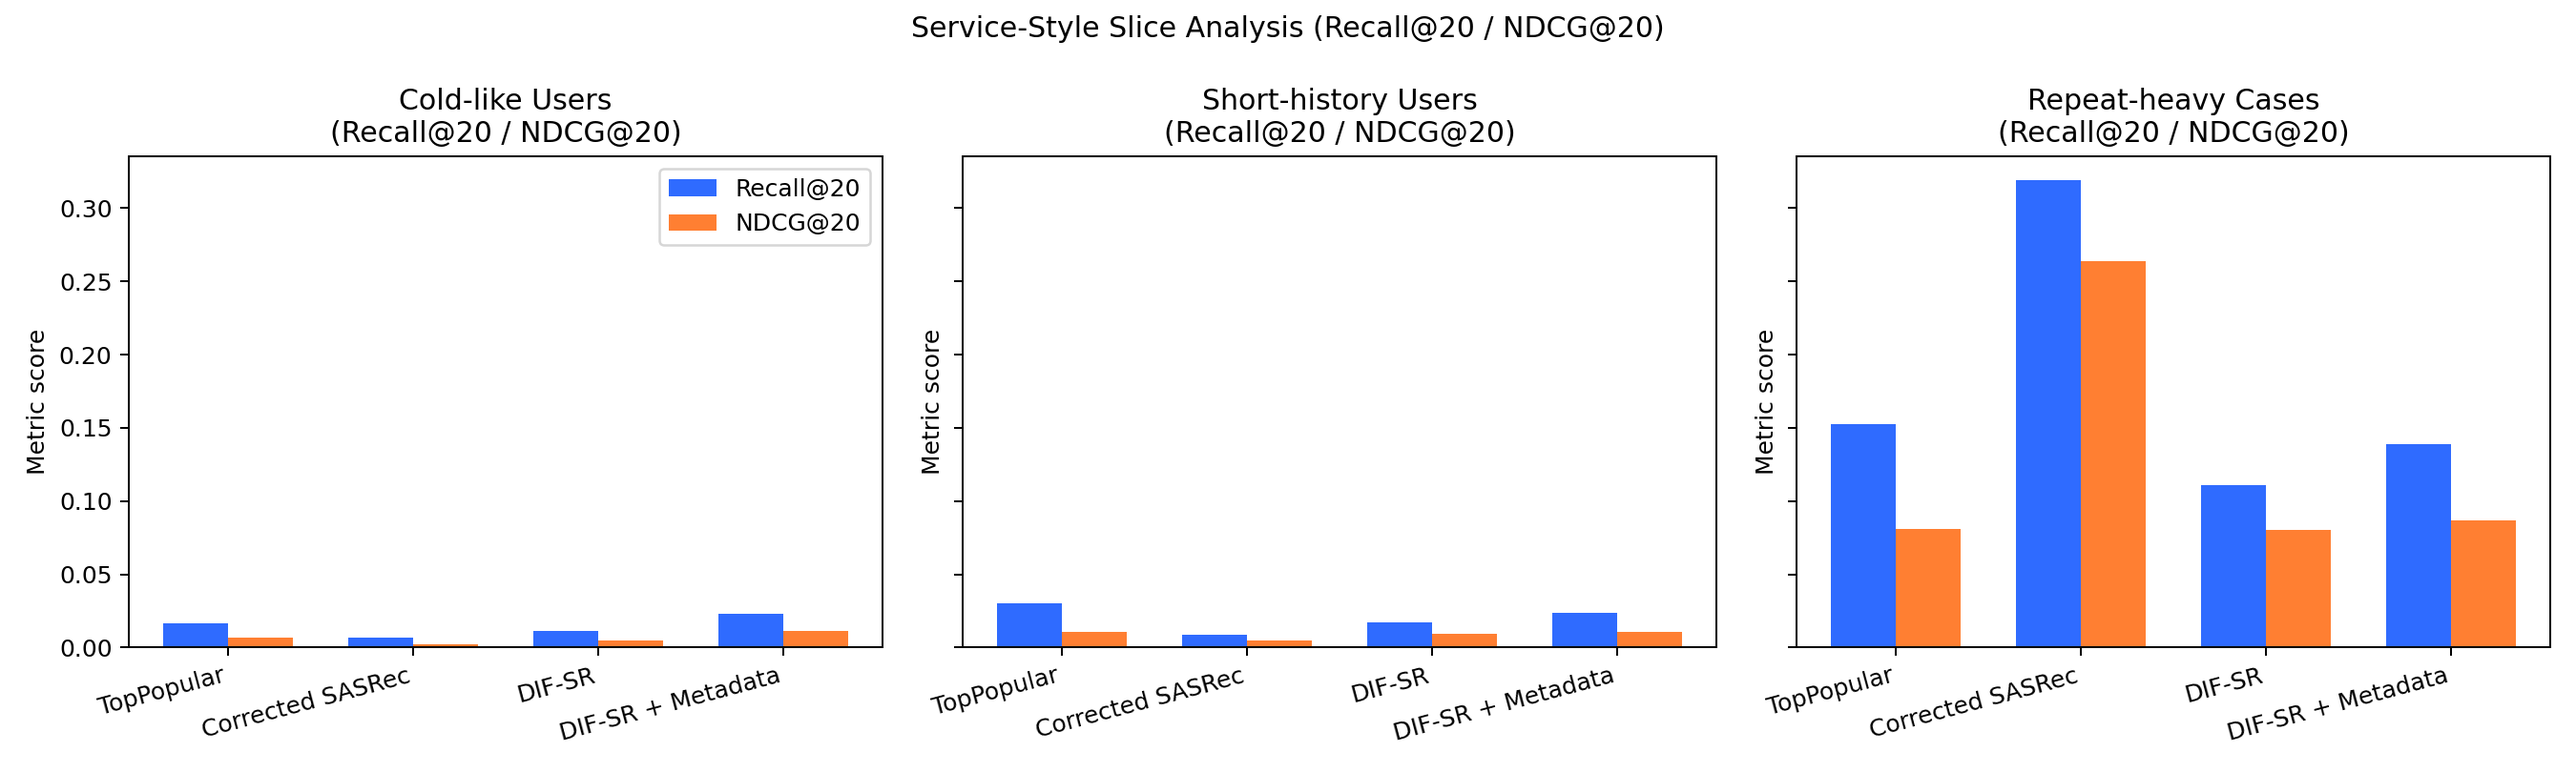
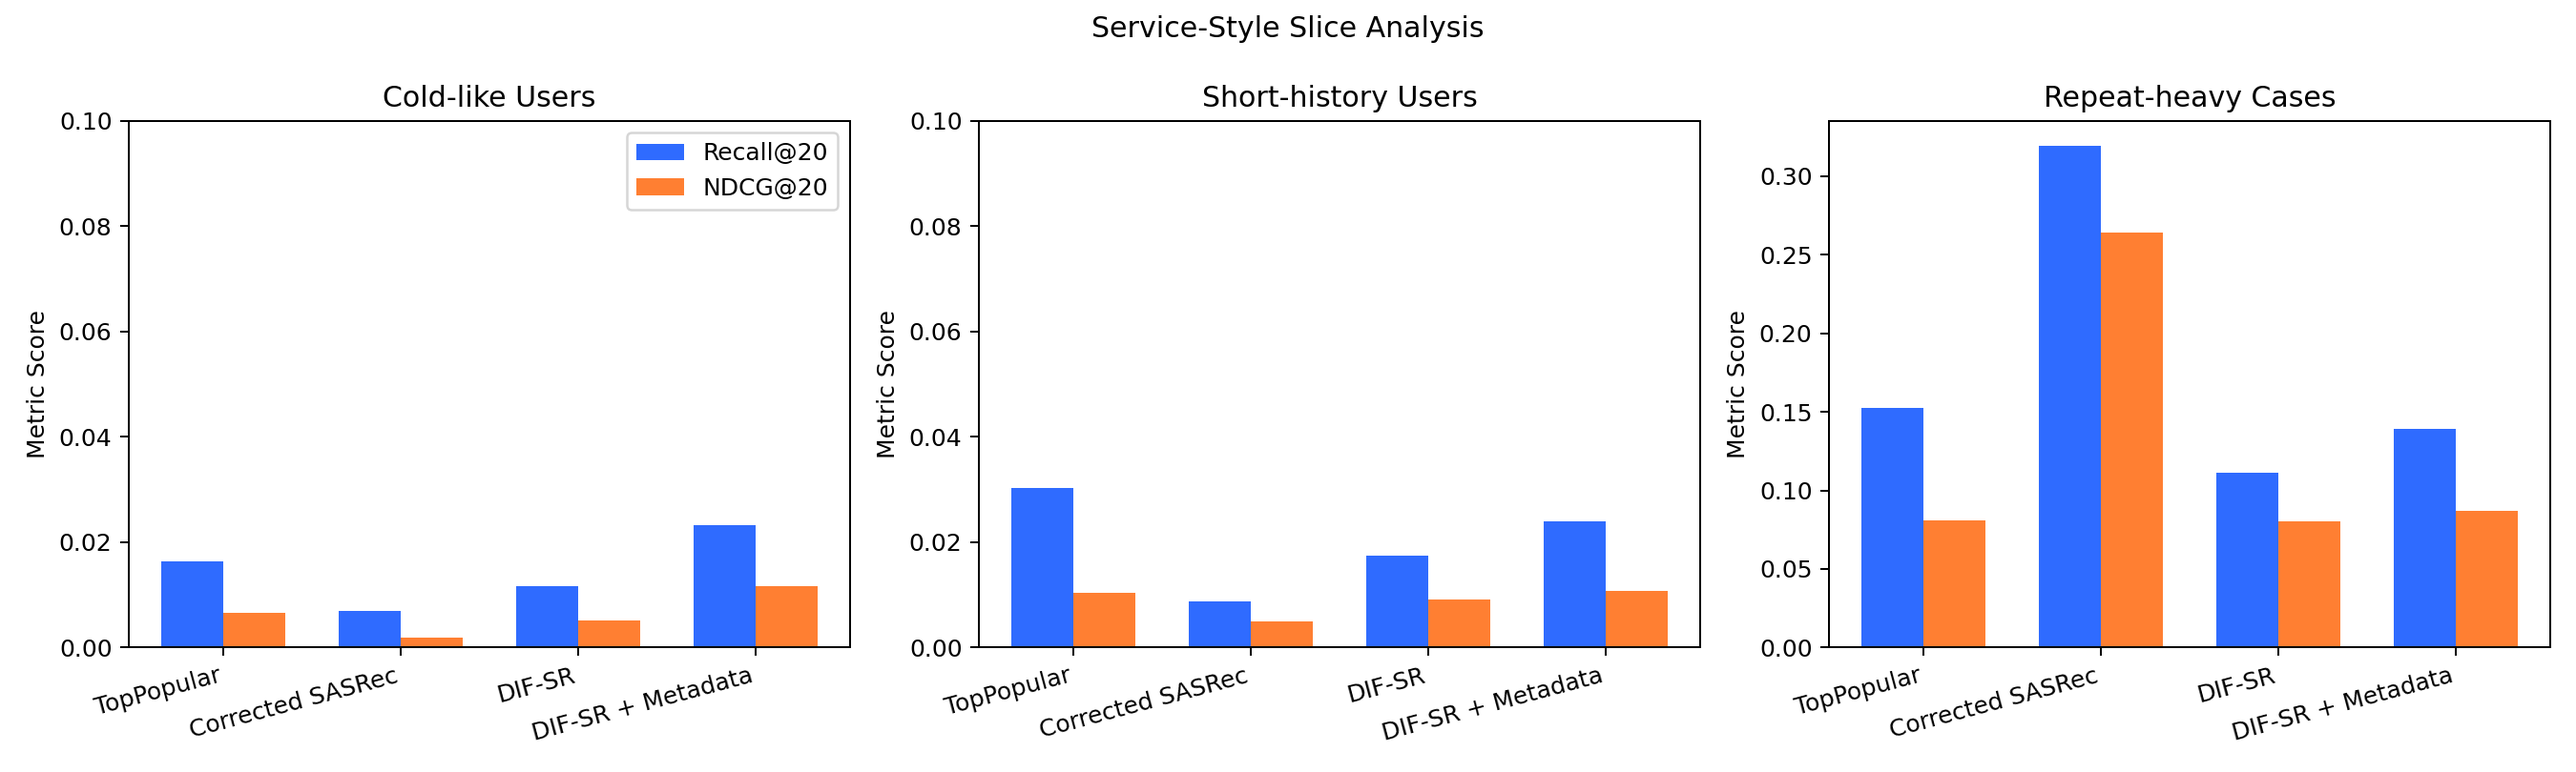
docs: streamline readme and slice analysis visuals

diff --git a/scripts/generate_service_style_eval.py b/scripts/generate_service_style_eval.py
@@ -148,15 +148,15 @@ def render_service_comparison_plot(canonical, service_results, output_path: Path
 def render_service_slice_plot(slice_results, output_path: Path):
     slice_names = ["cold-like users", "short history users (<=5)", "repeat purchase cases"]
     slice_titles = {
-        "cold-like users": "Cold-like Users\n(Recall@20 / NDCG@20)",
-        "short history users (<=5)": "Short-history Users\n(Recall@20 / NDCG@20)",
-        "repeat purchase cases": "Repeat-heavy Cases\n(Recall@20 / NDCG@20)",
+        "cold-like users": "Cold-like Users",
+        "short history users (<=5)": "Short-history Users",
+        "repeat purchase cases": "Repeat-heavy Cases",
     }
     models = ["TopPopular", "Corrected SASRec", "DIF-SR", "DIF-SR + Metadata"]
     x = np.arange(len(models))
     width = 0.35
 
-    fig, axes = plt.subplots(1, len(slice_names), figsize=(15, 4), sharey=True)
+    fig, axes = plt.subplots(1, len(slice_names), figsize=(15, 4), sharey=False)
     for ax, slice_name in zip(axes, slice_names):
         recall_vals = [slice_results[m][slice_name]["Recall@20"] for m in models]
         ndcg_vals = [slice_results[m][slice_name]["NDCG@20"] for m in models]
@@ -165,9 +165,11 @@ def render_service_slice_plot(slice_results, output_path: Path):
         ax.set_title(slice_titles[slice_name])
         ax.set_xticks(x)
         ax.set_xticklabels(models, rotation=15, ha="right")
-        ax.set_ylabel("Metric score")
+        ax.set_ylabel("Metric Score")
+        if slice_name in {"cold-like users", "short history users (<=5)"}:
+            ax.set_ylim(0.0, 0.10)
     axes[0].legend()
-    fig.suptitle("Service-Style Slice Analysis (Recall@20 / NDCG@20)")
+    fig.suptitle("Service-Style Slice Analysis")
     fig.tight_layout()
     output_path.parent.mkdir(parents=True, exist_ok=True)
     fig.savefig(output_path)

diff --git a/analysis/generate_final_portfolio_plots.py b/analysis/generate_final_portfolio_plots.py
@@ -90,14 +90,14 @@ def plot_service_slices(service_slices, output_path: Path):
     models = ["TopPopular", "Corrected SASRec", "DIF-SR", "DIF-SR + Metadata"]
     slice_names = ["cold-like users", "short history users (<=5)", "repeat purchase cases"]
     slice_titles = {
-        "cold-like users": "Cold-like Users\n(Recall@20 / NDCG@20)",
-        "short history users (<=5)": "Short-history Users\n(Recall@20 / NDCG@20)",
-        "repeat purchase cases": "Repeat-heavy Cases\n(Recall@20 / NDCG@20)",
+        "cold-like users": "Cold-like Users",
+        "short history users (<=5)": "Short-history Users",
+        "repeat purchase cases": "Repeat-heavy Cases",
     }
     x = np.arange(len(models))
     width = 0.35
 
-    fig, axes = plt.subplots(1, 3, figsize=(15, 4.5), sharey=True)
+    fig, axes = plt.subplots(1, 3, figsize=(15, 4.5), sharey=False)
     for ax, slice_name in zip(axes, slice_names):
         recall_values = [service_slices[m][slice_name]["Recall@20"] for m in models]
         ndcg_values = [service_slices[m][slice_name]["NDCG@20"] for m in models]
@@ -106,9 +106,11 @@ def plot_service_slices(service_slices, output_path: Path):
         ax.set_title(slice_titles[slice_name])
         ax.set_xticks(x)
         ax.set_xticklabels(models, rotation=15, ha="right")
-        ax.set_ylabel("Metric score")
+        ax.set_ylabel("Metric Score")
+        if slice_name in {"cold-like users", "short history users (<=5)"}:
+            ax.set_ylim(0.0, 0.10)
     axes[0].legend()
-    fig.suptitle("Service-Style Slice Analysis (Recall@20 / NDCG@20)")
+    fig.suptitle("Service-Style Slice Analysis")
     fig.tight_layout()
     fig.savefig(output_path, dpi=180)
     plt.close(fig)

diff --git a/README.md b/README.md
@@ -4,27 +4,6 @@
 
 이 저장소는 H&M 거래 데이터로부터 구성한 구매 시퀀스를 사용해, 극도로 희소한 상호작용 환경에서 sequential recommendation이 어떻게 동작하는지 분석합니다.
 
-이 프로젝트는 다음 세 가지 질문에 답하는 것을 목표로 합니다.
-
-- item metadata가 추천 성능을 개선하는가?
-- 어떤 사용자 구간에서 metadata가 특히 더 유용해지는가?
-- 약한 behavioral signal 환경에서 모델 구조 차이가 어떻게 작동하는가?
-
-최종 아티팩트는 다음을 포함하는 연구형 실험 패키지로 구성되어 있습니다.
-
-- baseline verification
-- canonical research evaluation
-- service-style robustness evaluation
-- user regime별 slice analysis
-- dataset regime 해석
-
-## Quick Navigation
-
-- Reports: [`reports/README.md`](reports/README.md)
-- Config Index: [`configs/README.md`](configs/README.md)
-- Repository Guide: [`REPOSITORY_GUIDE.md`](REPOSITORY_GUIDE.md)
-- Framework Docs: [`docs/framework/`](docs/framework)
-
 ## Abstract
 
 이 프로젝트는 real fashion purchase dataset에서 sparse interaction regime 하의 sequential recommendation을 분석합니다. 핵심 질문은 item metadata가 recommendation quality를 개선하는지, 그리고 어떤 user regime에서 그 효과가 가장 크게 나타나는지입니다.
@@ -226,34 +205,11 @@ service-style report:
 
 ![Service-style slice analysis](plots/final_slice_analysis.png)
 
-각 panel은 `Recall@20`와 `NDCG@20`를 함께 보여줍니다.
-
-### Cold-Like Users
-
-`DIF-SR + Metadata`
-
-- `Recall@20: 0.0233`
-- `NDCG@20: 0.0116`
-
-behavioral signal이 약할수록 metadata의 가치가 더 커집니다.
-
-### Short History Users
-
-`DIF-SR + Metadata`
-
-- `Recall@20: 0.0239`
-- `NDCG@20: 0.0107`
-
-짧은 interaction history에서는 metadata가 추천 성능을 뚜렷하게 개선합니다.
-
-### Repeat Purchase Cases
-
-`Corrected SASRec`
-
-- `Recall@20: 0.3194`
-- `NDCG@20: 0.2640`
-
-repeat-heavy scenario는 일반적인 sparse recommendation보다 memorization problem에 더 가깝게 동작합니다.
+| Slice | Best Model | Metrics | Interpretation |
+| --- | --- | --- | --- |
+| Cold-Like Users | `DIF-SR + Metadata` | `Recall@20: 0.0233`, `NDCG@20: 0.0116` | behavioral signal이 약할수록 metadata의 가치가 더 커집니다. |
+| Short History Users | `DIF-SR + Metadata` | `Recall@20: 0.0239`, `NDCG@20: 0.0107` | 짧은 interaction history에서는 metadata가 추천 성능을 뚜렷하게 개선합니다. |
+| Repeat Purchase Cases | `Corrected SASRec` | `Recall@20: 0.3194`, `NDCG@20: 0.2640` | repeat-heavy scenario는 일반적인 sparse recommendation보다 memorization problem에 더 가깝게 동작합니다. |
 
 ## Result Interpretation
 
